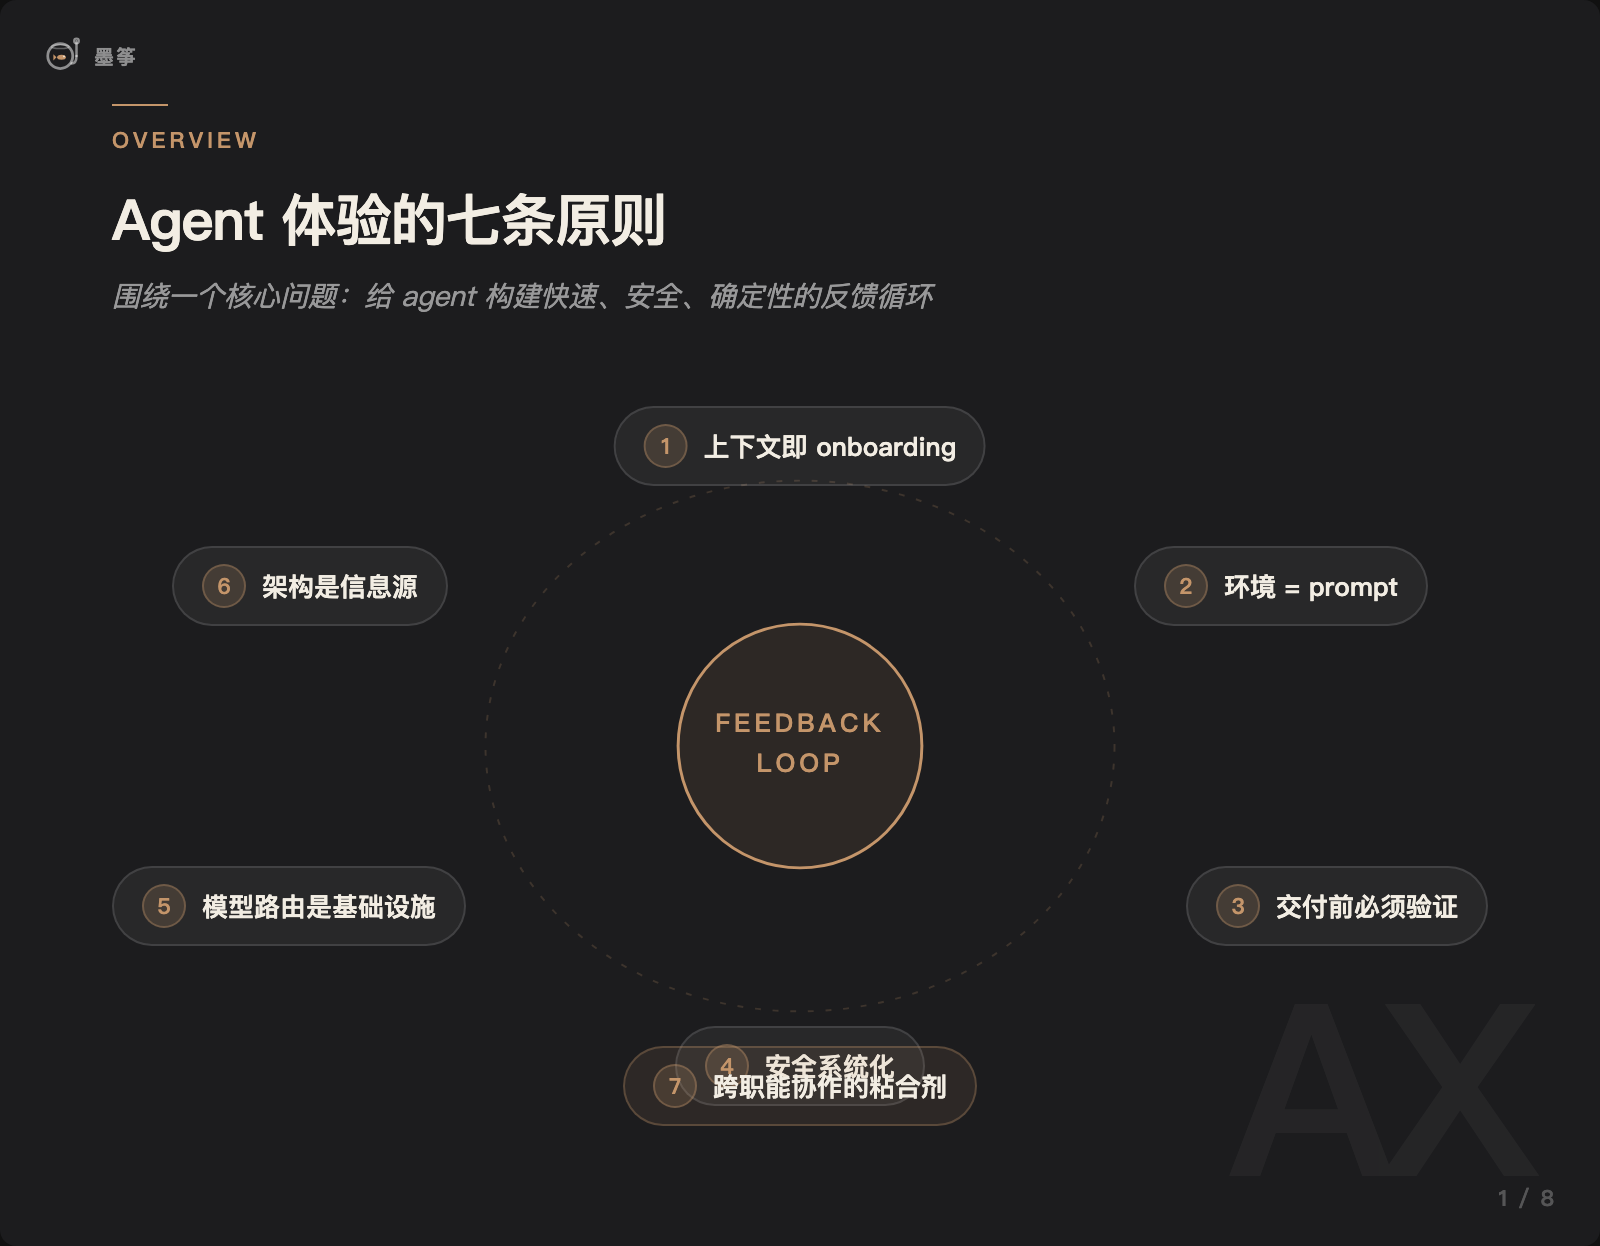
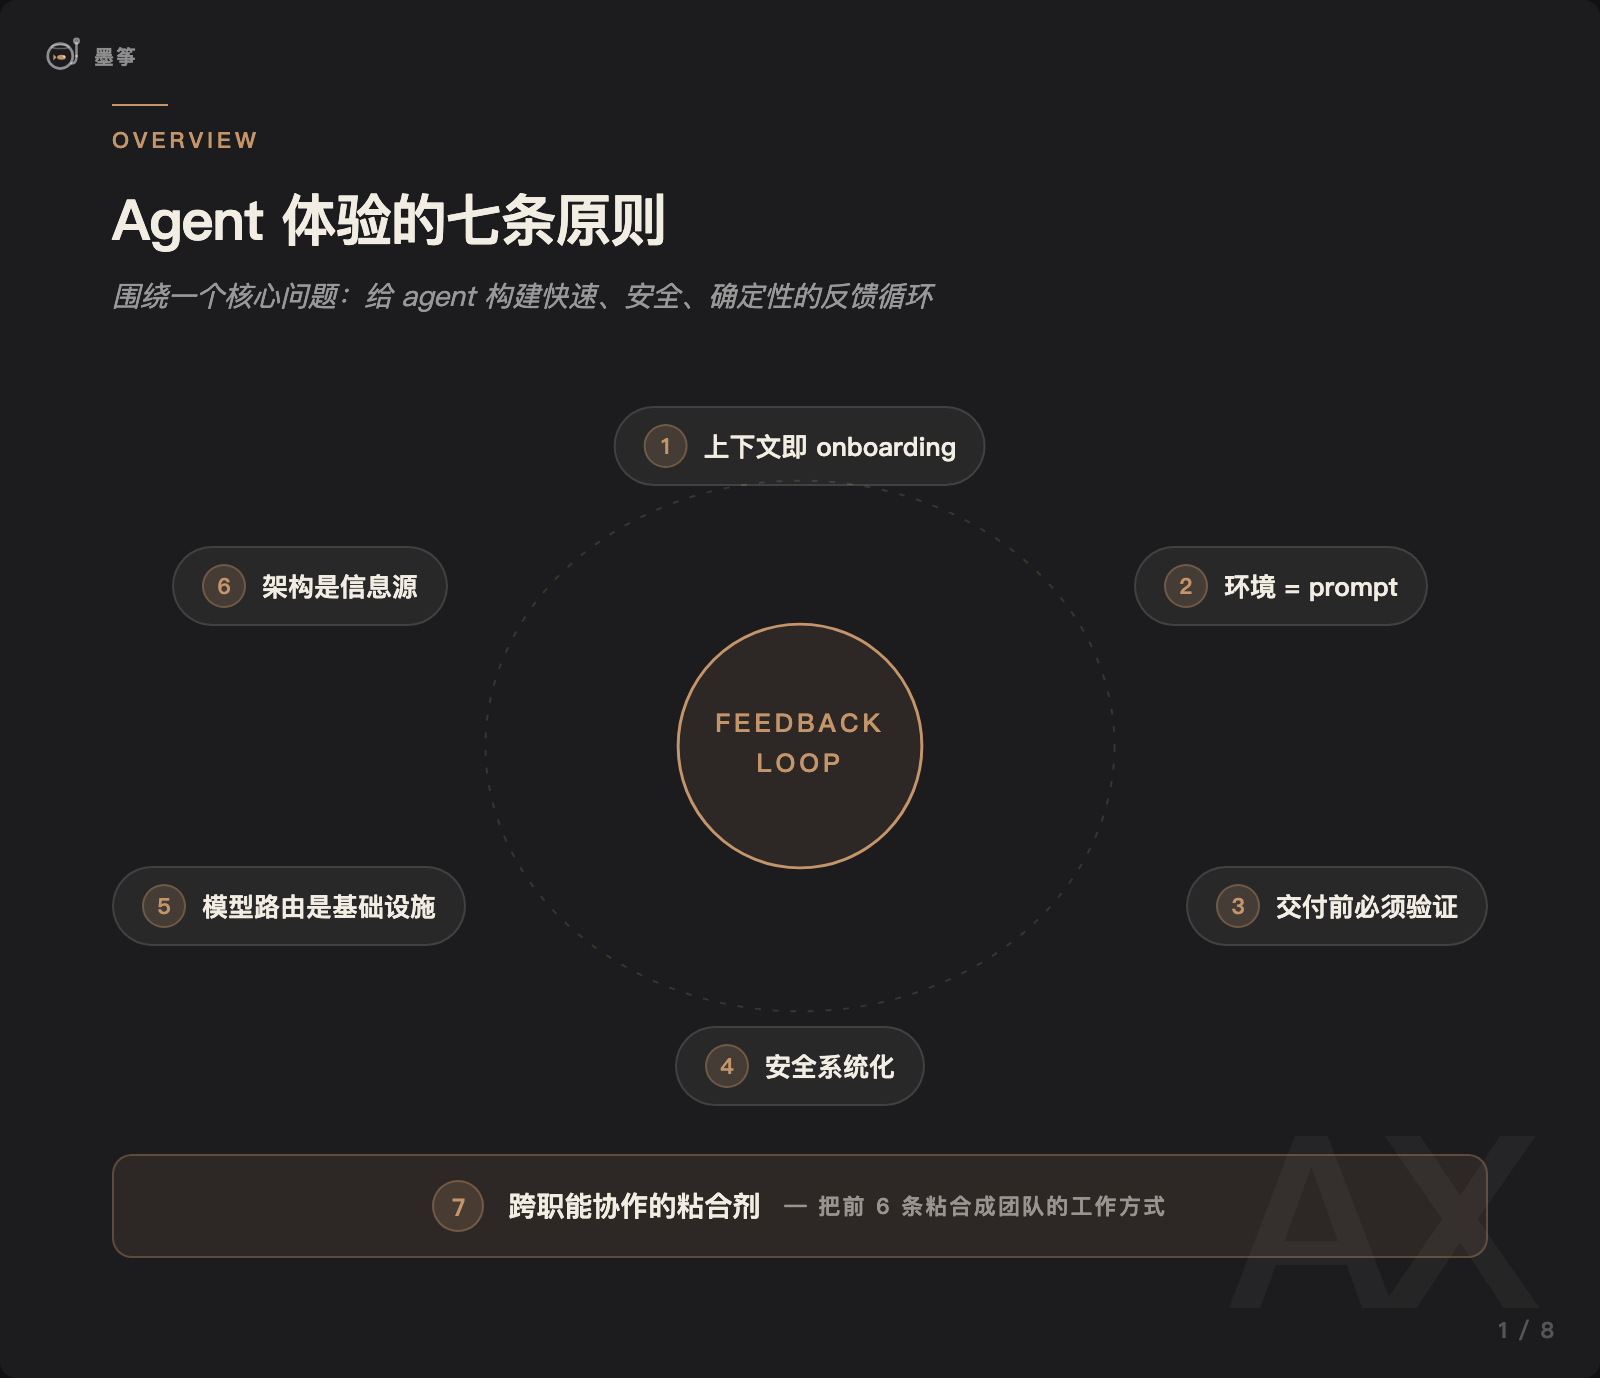
feat: add content

diff --git a/content/agent-experience/illustrations.html b/content/agent-experience/illustrations.html
@@ -111,7 +111,7 @@ body{background:#111;display:flex;flex-direction:column;align-items:center;paddi
     <div class="h-title">Agent 体验的七条原则</div>
     <div class="h-sub">围绕一个核心问题：给 agent 构建快速、安全、确定性的反馈循环</div>
 
-    <!-- 中心圆 + 7 节点 -->
+    <!-- 中心圆 + 6 节点环绕 -->
     <div style="position:relative;height:380px;margin-top:8px;">
       <svg width="100%" height="380" viewBox="0 0 700 380" preserveAspectRatio="xMidYMid meet">
         <!-- 反馈圈 -->
@@ -122,7 +122,7 @@ body{background:#111;display:flex;flex-direction:column;align-items:center;paddi
         <text x="350" y="203" text-anchor="middle" font-family="-apple-system,'PingFang SC',sans-serif" font-size="13" font-weight="700" fill="#C4956A" letter-spacing="2">LOOP</text>
       </svg>
 
-      <!-- 7 节点用 HTML 绝对定位 -->
+      <!-- 6 节点环绕中心圈 -->
       <div style="position:absolute;left:50%;top:20px;transform:translateX(-50%);text-align:center;">
         <div style="display:inline-flex;align-items:center;gap:8px;background:rgba(255,255,255,0.05);border:1px solid rgba(255,255,255,0.12);padding:8px 14px;border-radius:20px;">
           <span class="num-dot gold" style="width:22px;height:22px;font-size:11px;">1</span>
@@ -159,13 +159,13 @@ body{background:#111;display:flex;flex-direction:column;align-items:center;paddi
           <span class="t-primary" style="font-size:13px;font-weight:700;">架构是信息源</span>
         </div>
       </div>
-      <div style="position:absolute;left:50%;top:170px;transform:translate(-50%, 130px);text-align:center;display:none;"></div>
-      <div style="position:absolute;left:50%;top:340px;transform:translateX(-50%);text-align:center;">
-        <div style="display:inline-flex;align-items:center;gap:8px;background:rgba(196,149,106,0.10);border:1px solid rgba(196,149,106,0.30);padding:8px 14px;border-radius:20px;">
-          <span class="num-dot gold" style="width:22px;height:22px;font-size:11px;">7</span>
-          <span class="t-primary" style="font-size:13px;font-weight:700;">跨职能协作的粘合剂</span>
-        </div>
-      </div>
+    </div>
+
+    <!-- 原则 7 单独作为基础底座（强调跨职能粘合剂的统领位） -->
+    <div style="margin-top:14px;padding:12px 18px;background:rgba(196,149,106,0.10);border:1px solid rgba(196,149,106,0.32);border-radius:10px;display:flex;align-items:center;gap:12px;justify-content:center;">
+      <span class="num-dot gold" style="width:26px;height:26px;font-size:12px;">7</span>
+      <span class="t-primary" style="font-size:14px;font-weight:800;">跨职能协作的粘合剂</span>
+      <span style="font-size:11px;color:rgba(242,237,227,0.55);font-weight:600;letter-spacing:0.1em;">— 把前 6 条粘合成团队的工作方式</span>
     </div>
   </div>
 </div>
